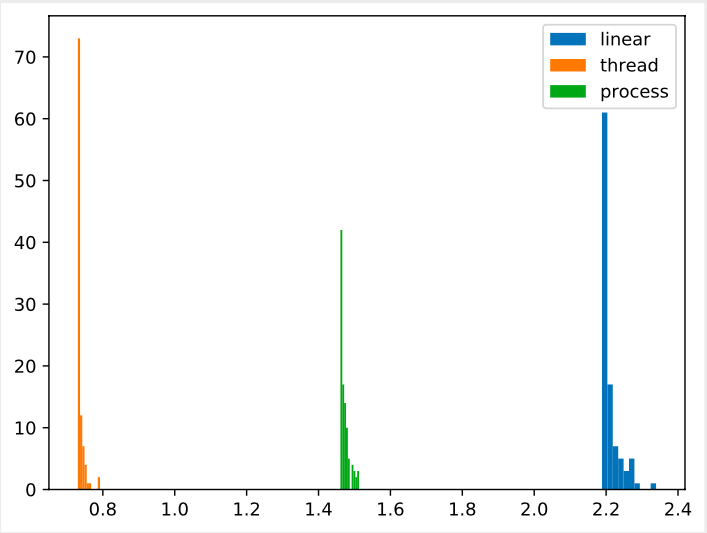
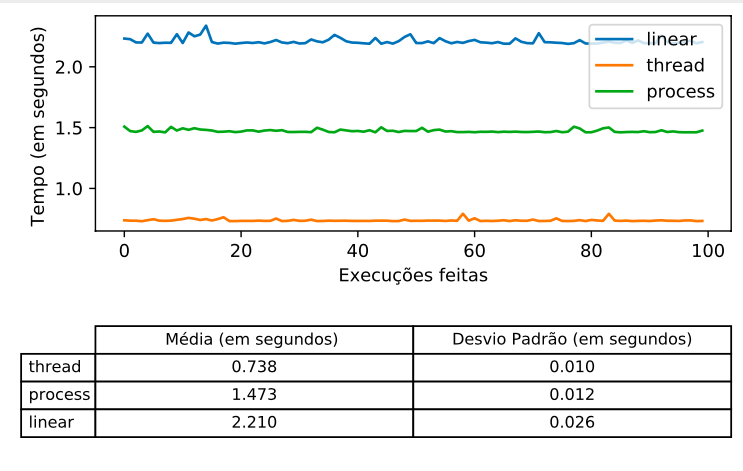
Foram as imagens

Changed region(s): [[0.0, 0.0297, 0.9958, 0.9809], [0.0622, 0.0297, 0.0934, 0.0594]]

diff --git a/plot-graph.py b/plot-graph.py
@@ -37,8 +37,10 @@ plt.hist(linear,label='linear')
 plt.hist(thread,label='thread')
 plt.hist(process,label='process')
 plt.legend()
-
+plt.xlabel("Tempo (em segundos)")
+plt.ylabel("Frequência por execução")
 pdf.savefig(fig,bbox_inches = 'tight') 
+# plt.savefig(input(),bbox_inches='tight') 
 
 fig, (ax1, ax2) = plt.subplots(2) 
 ax1.set_ylabel("Tempo (em segundos) ")
@@ -68,5 +70,6 @@ ax2.axis("off")
 
 
 pdf.savefig(fig,bbox_inches = 'tight') 
+# plt.savefig(input(),bbox_inches='tight') 
 
 pdf.close()

diff --git a/run_plot_graphs-tmp.py b/run_plot_graphs-tmp.py
@@ -1,0 +1,16 @@
+import json
+import os
+
+txt = ''
+while True:
+    try :
+        txt += input() + '\n'
+    except EOFError:
+        break
+
+json_dict = json.loads(txt)
+
+for key in json_dict:
+    os.system("echo 'doc/imgs/{}\ndoc/imgs/{}\n' | python3 plot-graph.py {}".format(json_dict[key].replace(".png","-1.png"),  json_dict[key].replace(".png","-2.png"), "logs/"+key ))
+
+

diff --git a/doc/README.md b/doc/README.md
@@ -6,19 +6,28 @@ Primeiramente, todos os nossos gráficos e testes foram feitos com o seguinte se
 
 Nisso, nós obtivemos os seguintes testes para N = 5:
 
-![alt text](https://raw.githubusercontent.com/VictorTOON/EA876---Trabalho-2/master/doc/imgs/saida-100-N5-3p-cachorro-1.png)
-![alt text](https://raw.githubusercontent.com/VictorTOON/EA876---Trabalho-2/master/doc/imgs/saida-100-N5-3p-cachorro-2.png)
+![alt text](https://raw.githubusercontent.com/VictorTOON/EA876---Trabalho-2/master/doc/imgs/cachorro-5-3-1.png)
+![alt text](https://raw.githubusercontent.com/VictorTOON/EA876---Trabalho-2/master/doc/imgs/cachorro-5-3-2.png)
 
 Com isso, podemos ver que o resultado não foi exatamente como o esperado, já que o multi-processos está consideravelmente distante da multi-thread. Então, testamos para N = 3 e N = 7:
 
-[imagem N3 e imagem N7]
+![alt text](https://raw.githubusercontent.com/VictorTOON/EA876---Trabalho-2/master/doc/imgs/cachorro-3-3-1.png)
+![alt text](https://raw.githubusercontent.com/VictorTOON/EA876---Trabalho-2/master/doc/imgs/cachorro-3-3-2.png)
+
+![alt text](https://raw.githubusercontent.com/VictorTOON/EA876---Trabalho-2/master/doc/imgs/cachorro-7-3-1.png)
+![alt text](https://raw.githubusercontent.com/VictorTOON/EA876---Trabalho-2/master/doc/imgs/cachorro-7-3-2.png)
 
 Mas os resultados também foram semelhantes. Por fim, resolvemos testar com uma imagem muito grande (resolução 4k), e obtivemos o seguinte resultado:
 
-[saidaOnePiece]
+![alt text](https://raw.githubusercontent.com/VictorTOON/EA876---Trabalho-2/master/doc/imgs/onePiece-5-3-1.png)
+![alt text](https://raw.githubusercontent.com/VictorTOON/EA876---Trabalho-2/master/doc/imgs/onePiece-5-3-2.png)
 
 Com isso em mente, resolvemos ir atrás dos possíveis motivos disso estar acontecendo, já que tanto o multi-thread quanto o multi-processos são feitas em paralelo. Então fizemos alguns testes com apenas 1 canal de cor e com 2 canais, pra saber se haveria diferença na velocidade(não deveria haver, teoricamente). Obtivemos os seguintes resultados:
 
-[inserir os gráficos de 1P e 2P]
+![alt text](https://raw.githubusercontent.com/VictorTOON/EA876---Trabalho-2/master/doc/imgs/cachorro-5-1-1.png)
+![alt text](https://raw.githubusercontent.com/VictorTOON/EA876---Trabalho-2/master/doc/imgs/cachorro-5-1-2.png)
+
+![alt text](https://raw.githubusercontent.com/VictorTOON/EA876---Trabalho-2/master/doc/imgs/cachorro-5-2-1.png)
+![alt text](https://raw.githubusercontent.com/VictorTOON/EA876---Trabalho-2/master/doc/imgs/cachorro-5-2-2.png)
 
 Como pudemos observar, o tempo de execução se mantém se mudarmos o números de processos/threads feitos ao mesmo tempo. Com isso em mente, e fazendo algumas pesquisas, supomos que o que fez nosso multi-processo demorar tanto a mais é que os processos normalmente demoram mais para serem criados e para finalizarem. Além de que o tempo de "context switch" do Processo ser maior do que da Thread. Nos processos também, utilizamos mmap pra declarar as matrizes utilizadas dentro deles, e o mmap demora mais tempo para ser criado do que um malloc normal.
